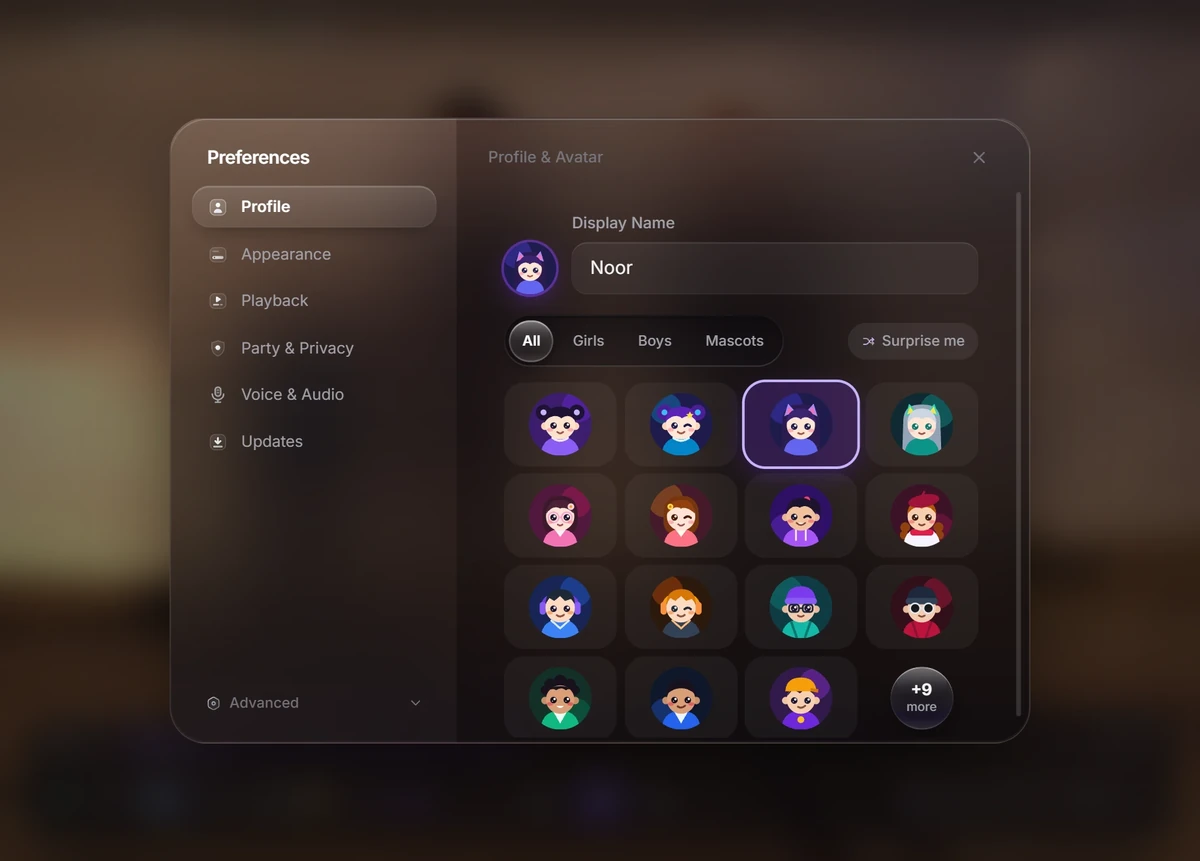
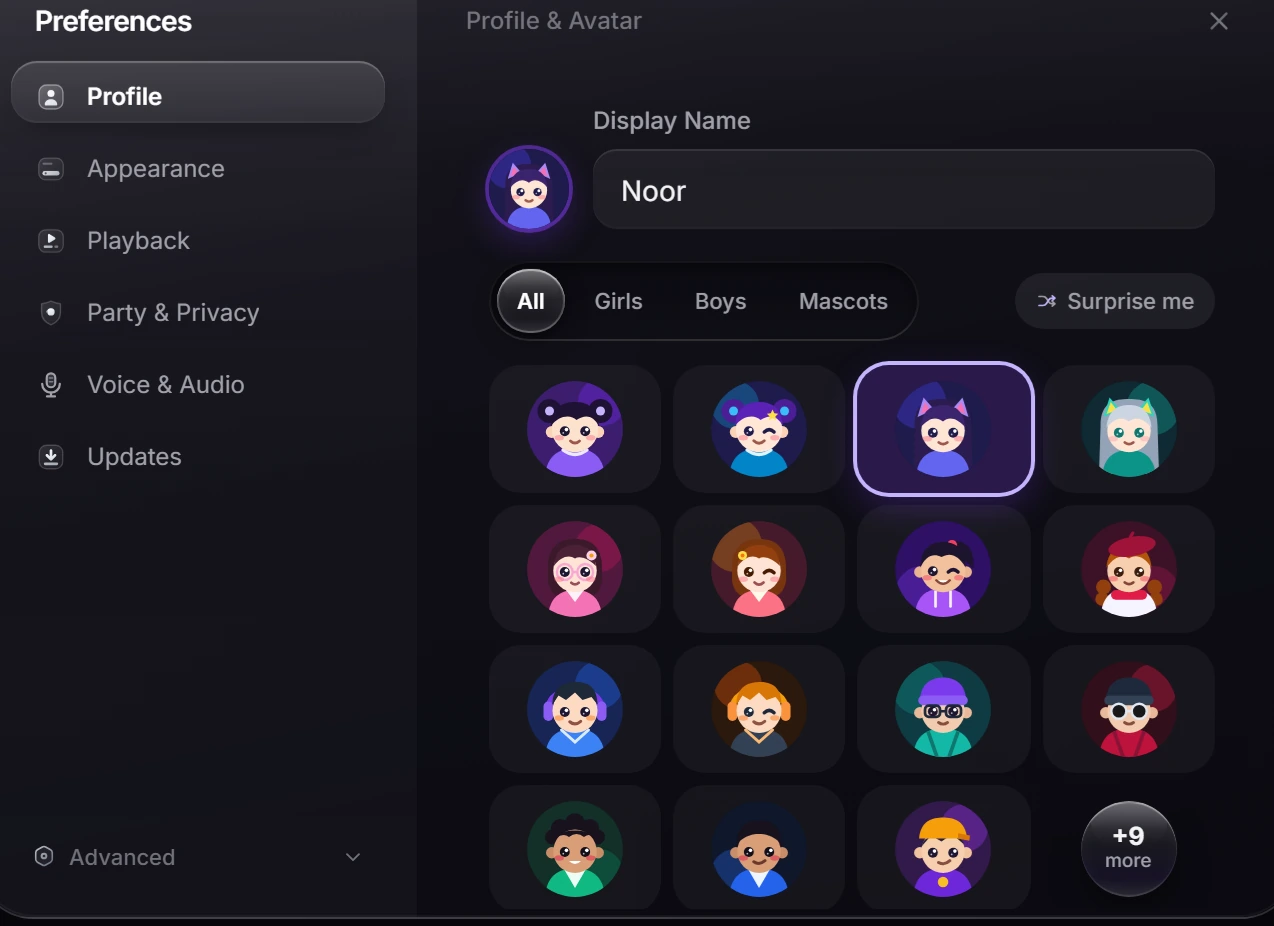
polish(epilod-party): isolate Room Pass and Preferences UI panels without outer background

diff --git a/epilod-party.html b/epilod-party.html
@@ -819,16 +819,15 @@
     /* Card 2: Epilod Amethyst Mat (6-Digit Watch Party Pass) */
     .card-mat--amethyst {
       background-image: var(--mat-amethyst);
-      padding: 44px 34px 0 34px;
-      align-items: flex-end;
+      padding: 36px 28px;
+      align-items: center;
       justify-content: center;
     }
 
     .card-mat--amethyst img {
       width: 100%;
       height: auto;
-      border-top-left-radius: 22px;
-      border-top-right-radius: 22px;
+      border-radius: 20px;
       box-shadow: 0 22px 54px rgba(17, 7, 41, 0.45);
     }
 
@@ -1476,7 +1475,7 @@
       }
 
       .card-mat--amethyst {
-        padding: 32px 24px 0;
+        padding: 24px 20px;
       }
 
       .card-mat--pink {
@@ -1891,8 +1890,8 @@
             <img
               src="/images/epilod-party/room-pass-card.webp"
               alt="Host a New Room and Join with 6-Digit Code screen in Epilod Party"
-              width="940"
-              height="875"
+              width="880"
+              height="730"
               loading="lazy"
               draggable="false"
             />
@@ -1977,15 +1976,15 @@
             data-reveal
             role="button"
             tabindex="0"
-            data-lightbox-src="/images/epilod-party/preferences-full.webp"
+            data-lightbox-src="/images/epilod-party/preferences-card.webp"
             data-lightbox-alt="Epilod Party Preferences screen showing Smoked-Amethyst liquid glass customization"
             aria-label="Inspect Smoked-Amethyst Preferences screenshot"
           >
             <img
               src="/images/epilod-party/preferences-card.webp"
               alt="Epilod Party Comfort and Privacy avatar preferences"
-              width="1200"
-              height="861"
+              width="1274"
+              height="926"
               loading="lazy"
               draggable="false"
             />

diff --git a/epilod-party/index.html b/epilod-party/index.html
@@ -819,16 +819,15 @@
     /* Card 2: Epilod Amethyst Mat (6-Digit Watch Party Pass) */
     .card-mat--amethyst {
       background-image: var(--mat-amethyst);
-      padding: 44px 34px 0 34px;
-      align-items: flex-end;
+      padding: 36px 28px;
+      align-items: center;
       justify-content: center;
     }
 
     .card-mat--amethyst img {
       width: 100%;
       height: auto;
-      border-top-left-radius: 22px;
-      border-top-right-radius: 22px;
+      border-radius: 20px;
       box-shadow: 0 22px 54px rgba(17, 7, 41, 0.45);
     }
 
@@ -1476,7 +1475,7 @@
       }
 
       .card-mat--amethyst {
-        padding: 32px 24px 0;
+        padding: 24px 20px;
       }
 
       .card-mat--pink {
@@ -1891,8 +1890,8 @@
             <img
               src="/images/epilod-party/room-pass-card.webp"
               alt="Host a New Room and Join with 6-Digit Code screen in Epilod Party"
-              width="940"
-              height="875"
+              width="880"
+              height="730"
               loading="lazy"
               draggable="false"
             />
@@ -1977,15 +1976,15 @@
             data-reveal
             role="button"
             tabindex="0"
-            data-lightbox-src="/images/epilod-party/preferences-full.webp"
+            data-lightbox-src="/images/epilod-party/preferences-card.webp"
             data-lightbox-alt="Epilod Party Preferences screen showing Smoked-Amethyst liquid glass customization"
             aria-label="Inspect Smoked-Amethyst Preferences screenshot"
           >
             <img
               src="/images/epilod-party/preferences-card.webp"
               alt="Epilod Party Comfort and Privacy avatar preferences"
-              width="1200"
-              height="861"
+              width="1274"
+              height="926"
               loading="lazy"
               draggable="false"
             />
